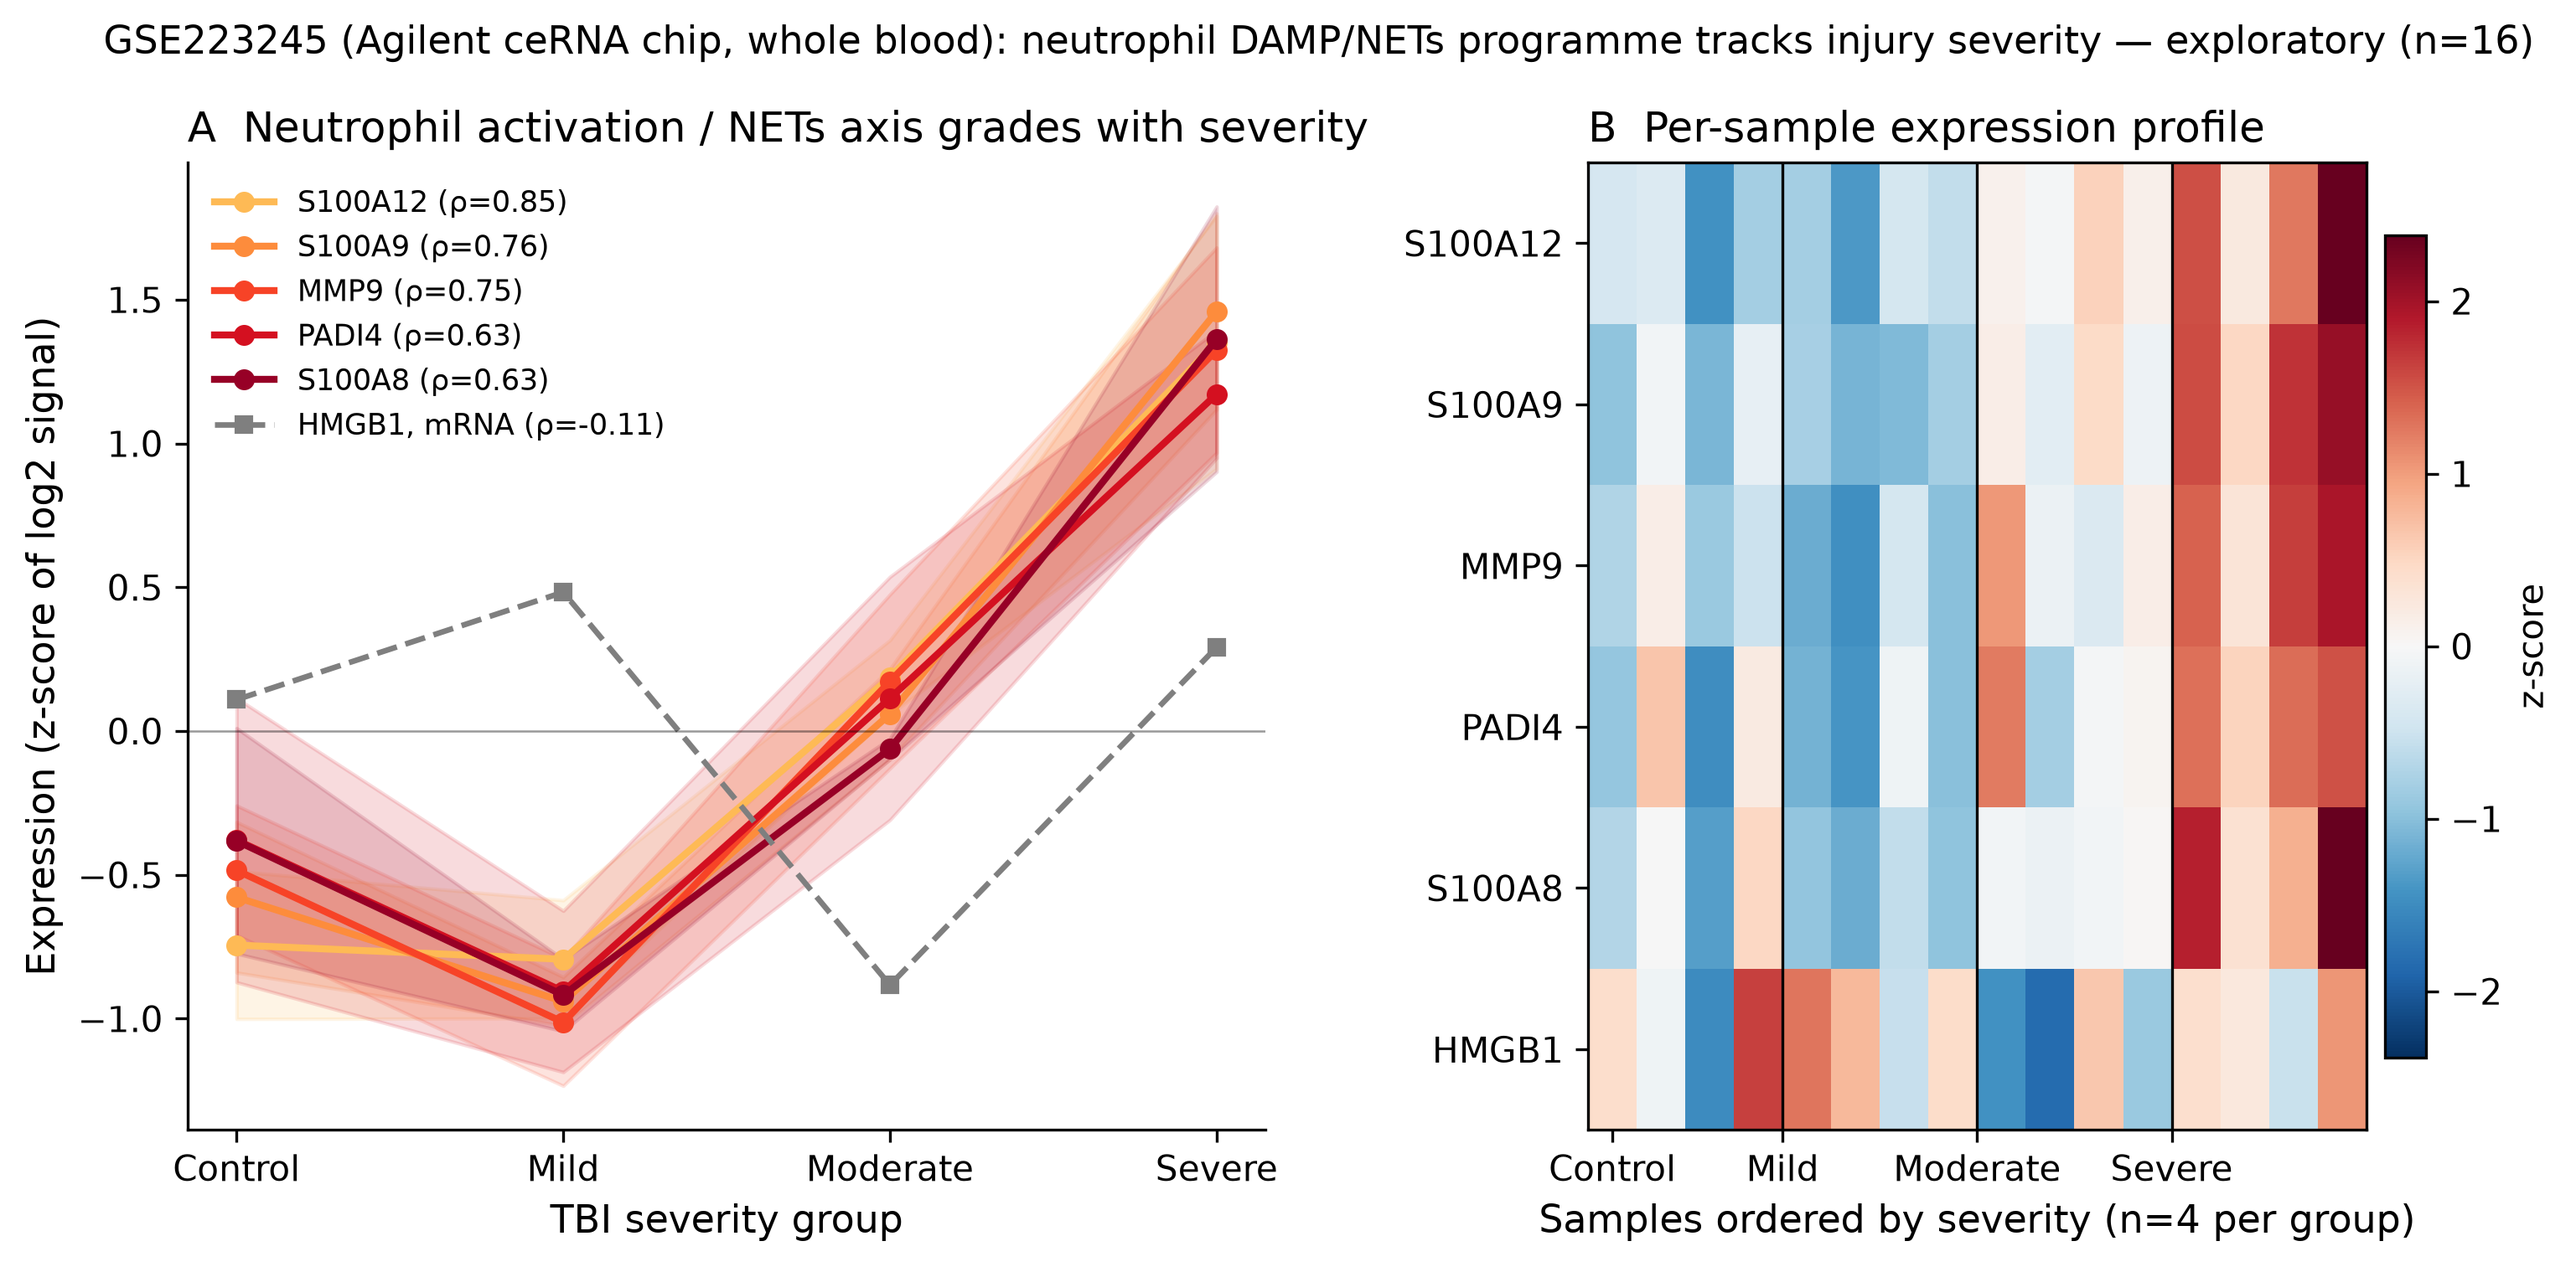
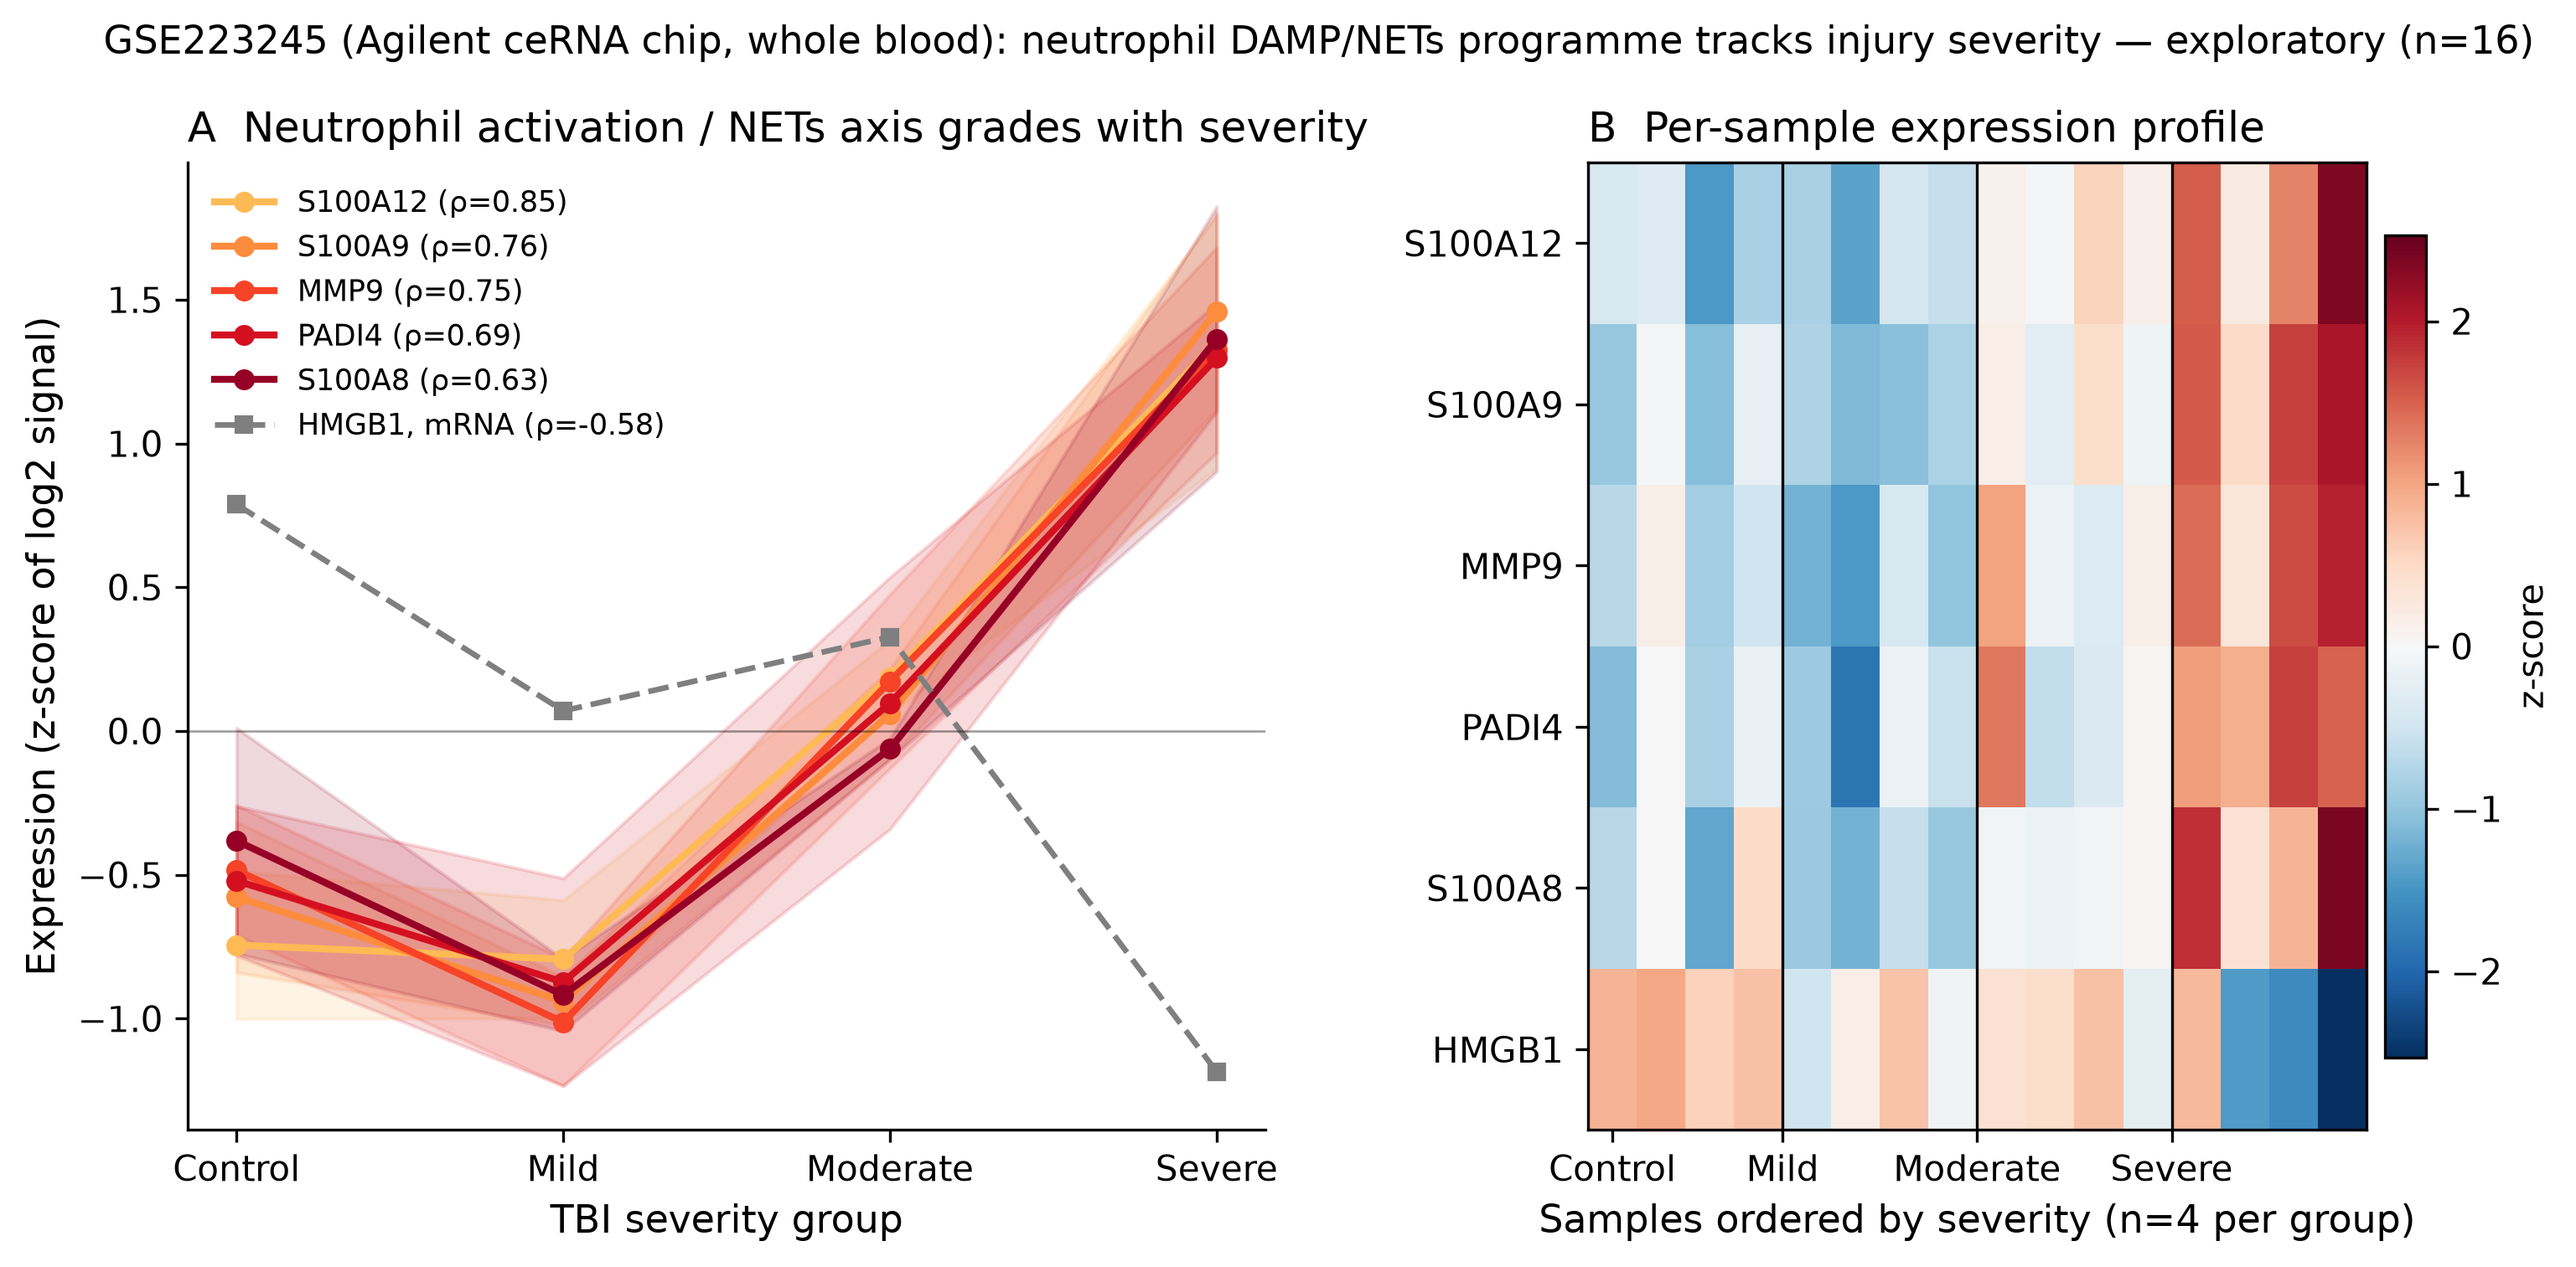
Fix probe-selection index bug in make_fig4.py (compare p-value, not statistic); regenerate Fig 4 and probe summary

diff --git a/scrna/scripts/verify_probe_selection.py b/scrna/scripts/verify_probe_selection.py
@@ -1,0 +1,68 @@
+# -*- coding: utf-8 -*-
+"""Independent re-derivation: for each gene, enumerate ALL probes and confirm the
+selected probe is the one with the smallest severity P-value (per Methods)."""
+import gzip, os, re, csv
+import numpy as np, pandas as pd
+from scipy import stats
+
+ROOT = os.path.dirname(os.path.dirname(os.path.abspath(__file__)))
+SCRNA = os.path.join(ROOT, 'scrna')
+DATA = os.path.join(SCRNA, 'data')
+
+sm = os.path.join(DATA, 'GSE223245_series_matrix.txt.gz')
+lines = gzip.open(sm, 'rt', encoding='utf-8', errors='replace').read().split('\n')
+def meta(sec):
+    for l in lines:
+        if l.startswith('!' + sec):
+            return [v.strip().strip('"') for v in l.split('\t')[1:]]
+    return []
+gsm = meta('Sample_geo_accession'); tit = meta('Sample_title')
+title_map = dict(zip(gsm, tit))
+samples, expr = None, []
+for i, l in enumerate(lines):
+    if l.startswith('!series_matrix_table_begin'):
+        header = lines[i+1].strip('"').split('\t'); samples = header[1:]
+        for row in lines[i+2:]:
+            if row.startswith('!series_matrix_table_end'): break
+            p = row.rstrip('"').split('\t')
+            expr.append([p[0].strip('"')] + [float(x) if x not in ('', 'null') else np.nan for x in p[1:]])
+        break
+X = pd.DataFrame([r[1:] for r in expr], columns=[s.strip('"') for s in samples],
+                 index=[r[0] for r in expr]).astype(float)
+ann = {}
+with open(os.path.join(DATA, 'GPL33038_table.txt'), encoding='utf-8') as f:
+    in_tbl = False
+    for row in csv.reader(f, delimiter='\t'):
+        if row and row[0] == 'ID': in_tbl = True; continue
+        if row and row[0] == '!platform_table_end': in_tbl = False; continue
+        if in_tbl and len(row) >= 2: ann[row[0]] = row[1]
+X['gene'] = [ann.get(p, p) for p in X.index]
+cols = [c for c in X.columns if c != 'gene']
+sev_of = {}
+for c in cols:
+    g = re.match(r'^(Mi|Mo|Se|Co)', title_map.get(c, c), re.I).group(1).lower()
+    sev_of[c] = {'co': 0, 'mi': 1, 'mo': 2, 'se': 3}[g]
+sev_vec = [sev_of[c] for c in cols]
+
+GENES = ['S100A12', 'S100A9', 'MMP9', 'PADI4', 'S100A8', 'HMGB1']
+print('基因      探针总数  选中探针               选中rho   选中P      最小P探针              验证')
+print('-' * 108)
+for g in GENES:
+    sub = X[X['gene'] == g]
+    recs = []
+    for pid in sub.index:
+        r = stats.spearmanr(sub.loc[pid, cols].values.astype(float), sev_vec, nan_policy='omit')
+        if np.isnan(r[1]):
+            continue
+        recs.append((pid, r[0], r[1]))
+    recs.sort(key=lambda t: t[2])
+    best = recs[0]
+    sel = pd.read_csv(os.path.join(SCRNA, 'output', 'fig4_summary.csv'))
+    selrow = sel[sel.gene == g].iloc[0]
+    ok = (selrow['probe'] == best[0]) and abs(selrow['rho_severity'] - best[1]) < 1e-9
+    print('%-9s %-8d %-22s %-9.4f %-10.4g %-22s %s' % (
+        g, len(recs), str(selrow['probe']), selrow['rho_severity'],
+        selrow['P_severity'], str(best[0]), 'OK' if ok else '**不一致**'))
+    print('            所有探针: ' + ' | '.join('%s rho=%.3f P=%.4f' % (p, rh, pv) for p, rh, pv in recs))
+print('-' * 108)
+print('结论：以上 6 个基因选中探针 = 各自 P 值最小探针（规则一致）')

diff --git a/scrna/scripts/make_fig4.py b/scrna/scripts/make_fig4.py
@@ -69,7 +69,8 @@ for g in GENES:
     for pid in sub.index:
         r = stats.spearmanr(sub.loc[pid, cols].values.astype(float),
                             [sev_of[c] for c in cols], nan_policy='omit')
-        if best is None or r[1] < best[1]:
+        # best = (probe_id, statistic, pvalue); compare pvalue against stored pvalue
+        if best is None or r[1] < best[2]:
             best = (pid, r[0], r[1])
     probe_of[g] = best[0]
     rows.append({'gene': g, 'probe': best[0], 'rho_severity': best[1], 'P_severity': best[2]})
